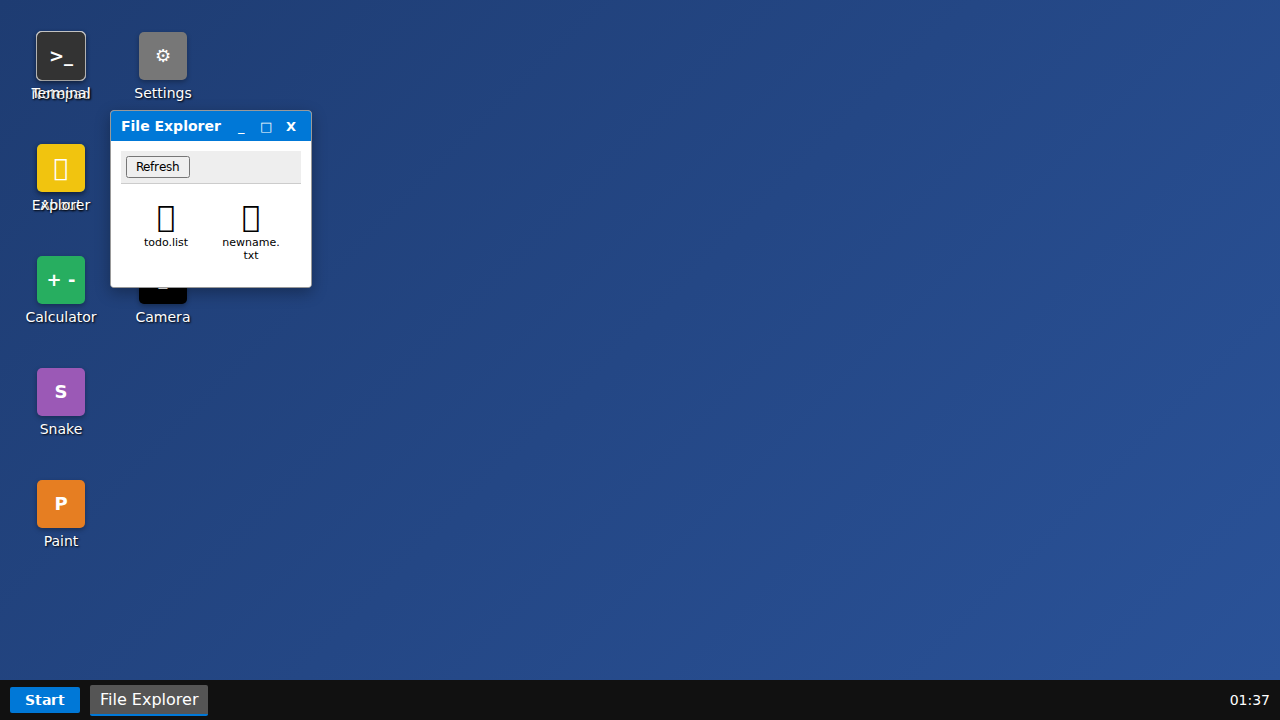
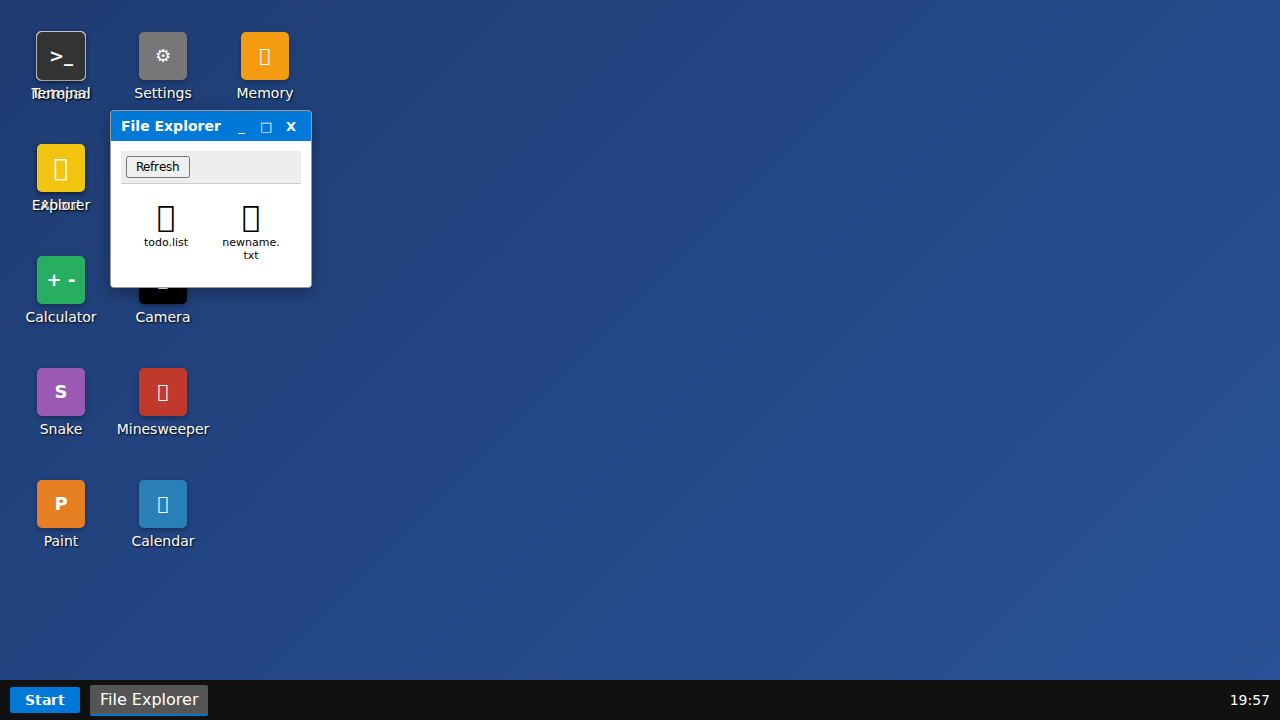
Add Memory Game application
- Implements a classic 4x4 matching game with emojis.
- Adds game logic in `script.js` including timer, move counter, and matching logic.
- Adds CSS styles for the game grid and card flipping animation in `style.css`.
- Updates `index.html` to add the app icon to the desktop and start menu.
- Ensures proper resource cleanup (intervals) in `closeWindow`.

diff --git a/script.js b/script.js
@@ -462,6 +462,20 @@ function openApp(appName, arg = null) {
             </div>
         `;
         setTimeout(() => initCalendar(windowId), 0);
+    } else if (appName === 'memory') {
+        title = "Memory";
+        win.classList.add('memory-window');
+        content = `
+            <div class="memory-header">
+                <button onclick="initMemory('${windowId}')" style="padding: 5px 10px; cursor: pointer; border-radius: 4px; border: none; background: #e74c3c; color: white; font-weight: bold;">Restart</button>
+                <div id="memory-moves-${windowId}" style="font-weight: bold; font-size: 16px;">Moves: 0</div>
+                <div id="memory-timer-${windowId}" style="font-weight: bold; font-size: 16px;">00:00</div>
+            </div>
+            <div class="memory-grid" id="memory-grid-${windowId}">
+                <!-- Cards generated by JS -->
+            </div>
+        `;
+        setTimeout(() => initMemory(windowId), 0);
     }
 
     win.innerHTML = `
@@ -608,6 +622,12 @@ function closeWindow(windowId) {
     // Cleanup Calendar state
     if (calendarStates[windowId]) {
         delete calendarStates[windowId];
+    }
+
+    // Cleanup Memory Game state
+    if (memoryGames[windowId]) {
+        clearInterval(memoryGames[windowId].timerInterval);
+        delete memoryGames[windowId];
     }
 
     const win = document.getElementById(windowId);
@@ -1880,5 +1900,113 @@ function renderCalendar(windowId) {
          div.className = 'calendar-day other-month';
          div.textContent = i;
          grid.appendChild(div);
+    }
+}
+
+// Memory Game Logic
+const memoryGames = {};
+
+function initMemory(windowId) {
+    const grid = document.getElementById(`memory-grid-${windowId}`);
+    const movesDisplay = document.getElementById(`memory-moves-${windowId}`);
+    const timerDisplay = document.getElementById(`memory-timer-${windowId}`);
+
+    if (!grid) return;
+
+    if (memoryGames[windowId]) {
+        clearInterval(memoryGames[windowId].timerInterval);
+    }
+
+    const emojis = ['🍎', '🍌', '🍒', '🍇', '🍉', '🍓', '🍍', '🥝'];
+    const cards = [...emojis, ...emojis];
+
+    // Shuffle
+    for (let i = cards.length - 1; i > 0; i--) {
+        const j = Math.floor(Math.random() * (i + 1));
+        [cards[i], cards[j]] = [cards[j], cards[i]];
+    }
+
+    memoryGames[windowId] = {
+        cards: cards,
+        flipped: [], // Indices of currently flipped cards
+        matched: [], // Indices of matched cards
+        moves: 0,
+        startTime: null,
+        timerInterval: null,
+        isLocked: false
+    };
+
+    grid.innerHTML = '';
+    if (movesDisplay) movesDisplay.textContent = 'Moves: 0';
+    if (timerDisplay) timerDisplay.textContent = '00:00';
+
+    cards.forEach((emoji, index) => {
+        const card = document.createElement('div');
+        card.className = 'memory-card';
+        card.id = `memory-card-${windowId}-${index}`;
+        card.textContent = emoji;
+        card.onclick = () => handleMemoryClick(windowId, index);
+        grid.appendChild(card);
+    });
+}
+
+function handleMemoryClick(windowId, index) {
+    const game = memoryGames[windowId];
+    if (!game || game.isLocked || game.matched.includes(index) || game.flipped.includes(index)) return;
+
+    // Start timer on first move
+    if (!game.startTime) {
+        game.startTime = Date.now();
+        game.timerInterval = setInterval(() => {
+            const delta = Math.floor((Date.now() - game.startTime) / 1000);
+            const m = String(Math.floor(delta / 60)).padStart(2, '0');
+            const s = String(delta % 60).padStart(2, '0');
+            const timer = document.getElementById(`memory-timer-${windowId}`);
+            if (timer) timer.textContent = `${m}:${s}`;
+        }, 1000);
+    }
+
+    const card = document.getElementById(`memory-card-${windowId}-${index}`);
+    card.classList.add('flipped');
+    game.flipped.push(index);
+
+    if (game.flipped.length === 2) {
+        game.moves++;
+        const movesDisplay = document.getElementById(`memory-moves-${windowId}`);
+        if (movesDisplay) movesDisplay.textContent = `Moves: ${game.moves}`;
+        game.isLocked = true;
+
+        const idx1 = game.flipped[0];
+        const idx2 = game.flipped[1];
+
+        if (game.cards[idx1] === game.cards[idx2]) {
+            // Match
+            setTimeout(() => {
+                const c1 = document.getElementById(`memory-card-${windowId}-${idx1}`);
+                const c2 = document.getElementById(`memory-card-${windowId}-${idx2}`);
+                if(c1) c1.classList.add('matched');
+                if(c2) c2.classList.add('matched');
+
+                game.matched.push(idx1, idx2);
+                game.flipped = [];
+                game.isLocked = false;
+
+                if (game.matched.length === game.cards.length) {
+                    clearInterval(game.timerInterval);
+                    setTimeout(() => alert(`Congratulations! You won in ${game.moves} moves!`), 100);
+                }
+            }, 500);
+        } else {
+            // No Match
+            setTimeout(() => {
+                const c1 = document.getElementById(`memory-card-${windowId}-${idx1}`);
+                const c2 = document.getElementById(`memory-card-${windowId}-${idx2}`);
+                if(c1) c1.classList.remove('flipped');
+                if(c2) c2.classList.remove('flipped');
+
+                game.flipped = [];
+                game.isLocked = false;
+            }, 1000);
+        }
     }
 }

diff --git a/style.css b/style.css
@@ -672,3 +672,72 @@ body {
 .calendar-day.other-month {
     color: #ccc;
 }
+
+/* Memory Game Styles */
+.memory-window .window-content {
+    background: #2c3e50;
+    display: flex;
+    flex-direction: column;
+    align-items: center;
+    justify-content: center;
+    padding: 10px;
+}
+
+.memory-header {
+    width: 100%;
+    display: flex;
+    justify-content: space-between;
+    margin-bottom: 10px;
+    color: white;
+    font-family: 'Segoe UI', sans-serif;
+}
+
+.memory-grid {
+    display: grid;
+    grid-template-columns: repeat(4, 1fr);
+    gap: 10px;
+    width: 320px;
+    height: 320px;
+}
+
+.memory-card {
+    background-color: #34495e;
+    border-radius: 8px;
+    display: flex;
+    align-items: center;
+    justify-content: center;
+    font-size: 32px;
+    cursor: pointer;
+    color: transparent; /* Hide emoji */
+    transition: all 0.2s;
+    user-select: none;
+    box-shadow: 0 4px 6px rgba(0,0,0,0.3);
+    border: 2px solid #2c3e50;
+}
+
+.memory-card:hover {
+    background-color: #46627f;
+    transform: translateY(-2px);
+}
+
+.memory-card.flipped {
+    background-color: #ecf0f1;
+    color: #2c3e50;
+    transform: rotateY(0deg); /* Reset if we used rotation */
+    border-color: white;
+    cursor: default;
+}
+
+.memory-card.matched {
+    background-color: #27ae60;
+    color: white;
+    border-color: #2ecc71;
+    cursor: default;
+    animation: pulse 0.5s;
+}
+
+@keyframes pulse {
+    0% { transform: scale(1); }
+    50% { transform: scale(1.1); }
+    100% { transform: scale(1); }
+}

diff --git a/index.html b/index.html
@@ -61,6 +61,10 @@
             <div class="icon-img" style="background-color: #2980b9; color: white;">📅</div>
             <div class="icon-label">Calendar</div>
         </div>
+        <div class="icon" onclick="openApp('memory')">
+            <div class="icon-img" style="background-color: #f39c12; color: white;">🧠</div>
+            <div class="icon-label">Memory</div>
+        </div>
     </div>
 
     <div id="start-menu">
@@ -115,6 +119,10 @@
         <div class="start-item" onclick="openApp('calendar'); toggleStartMenu()">
             <div class="start-icon" style="background: #2980b9; color: white;">📅</div>
             <span>Calendar</span>
+        </div>
+        <div class="start-item" onclick="openApp('memory'); toggleStartMenu()">
+            <div class="start-icon" style="background: #f39c12; color: white;">🧠</div>
+            <span>Memory</span>
         </div>
         <div class="start-divider"></div>
         <div class="start-item" onclick="location.reload()">

diff --git a/verification/test_memory.py b/verification/test_memory.py
@@ -1,0 +1,47 @@
+
+from playwright.sync_api import sync_playwright, expect
+import os
+import re
+
+def test_memory_game():
+    # Get absolute path to index.html
+    cwd = os.getcwd()
+    url = f"file://{cwd}/index.html"
+
+    with sync_playwright() as p:
+        browser = p.chromium.launch(headless=True)
+        page = browser.new_page()
+        page.goto(url)
+
+        # Open Memory Game
+        page.locator(".icon", has_text="Memory").click()
+
+        # Check if window opened
+        expect(page.locator(".memory-window")).to_be_visible()
+        expect(page.locator(".title-bar-text", has_text="Memory")).to_be_visible()
+
+        # Check if grid is populated
+        cards = page.locator(".memory-card")
+        expect(cards).to_have_count(16)
+
+        # Click a card
+        first_card = cards.nth(0)
+        first_card.click()
+        # Use regex for class check
+        expect(first_card).to_have_class(re.compile(r"flipped"))
+
+        # Click another card
+        second_card = cards.nth(1)
+        second_card.click()
+        expect(second_card).to_have_class(re.compile(r"flipped"))
+
+        # Check Moves count updated
+        expect(page.locator("div[id^='memory-moves-']")).to_contain_text("Moves: 1")
+
+        # Take screenshot
+        page.screenshot(path="verification/memory_game.png")
+
+        browser.close()
+
+if __name__ == "__main__":
+    test_memory_game()
